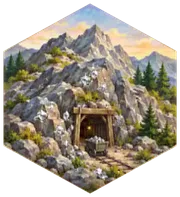
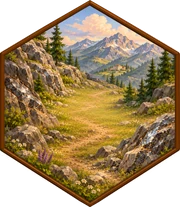
Nye malede felter (træ, korn, får, malm, ler, guld) og kort
Claude-Session: https://claude.ai/code/session_01MkFHTaE156qGzjCy9YYt21

diff --git a/js/render/tiles.js b/js/render/tiles.js
@@ -2,7 +2,7 @@
 // Metoderne blandes ind i Board3D (se board3d.js), så `this` er selve brættet.
 import * as THREE from 'three';
 import { K } from './constants.js';
-import { paintPasture, paintGold } from './textures.js';
+import { paintPasture } from './textures.js';
 import { TILE_IMAGES } from '../assets.js';
 
 export class TileParts {
@@ -82,7 +82,7 @@ export class TileParts {
     if (this._tmats[terrain]) return this._tmats[terrain];
     const key = { forest: 'wood', hills: 'brick', fields: 'wheat', mountains: 'ore', desert: 'desert', pasture: 'sheep' }[terrain];
     let tex;
-    if (terrain === 'gold') tex = paintGold(TILE_IMAGES.ore);
+    if (terrain === 'gold') tex = new THREE.TextureLoader().load(TILE_IMAGES.gold);
     else if (key && TILE_IMAGES[key]) { tex = new THREE.TextureLoader().load(TILE_IMAGES[key]); }
     else tex = new THREE.CanvasTexture(paintPasture());
     tex.colorSpace = THREE.SRGBColorSpace;

diff --git a/js/assets.js b/js/assets.js
@@ -16,6 +16,7 @@ export const TILE_IMAGES = {
   wheat: inline(IMG + 'tiles/wheat.webp'),   // kornmark
   ore: inline(IMG + 'tiles/ore.webp'),       // bjerge (bruges også tonet i guld til guldfelter)
   desert: inline(IMG + 'tiles/desert.webp'), // ørken
+  gold: inline(IMG + 'tiles/gold.webp'),     // guldfelt (Søfarere)
 };
 
 // Små billeder på råstofkortene (hånden, byggeknapperne, handel og havneskilte)
